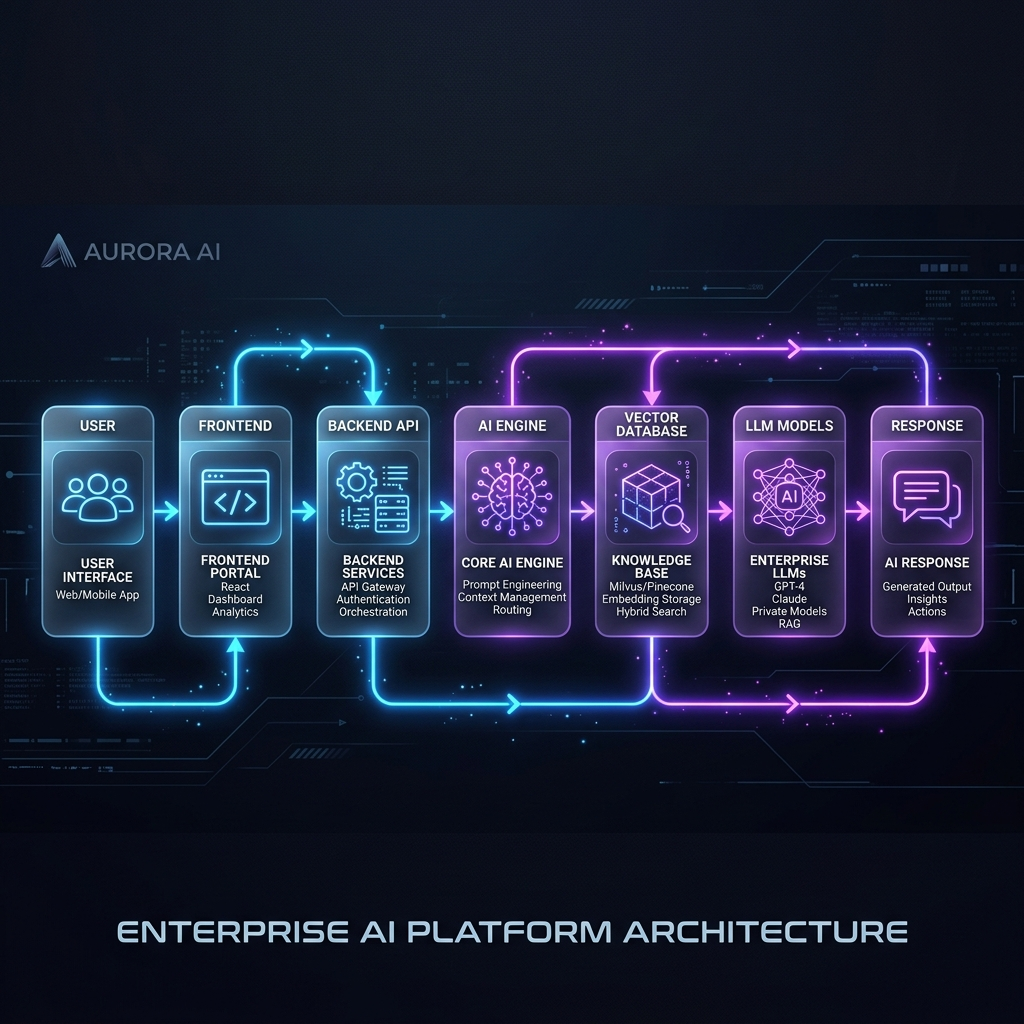
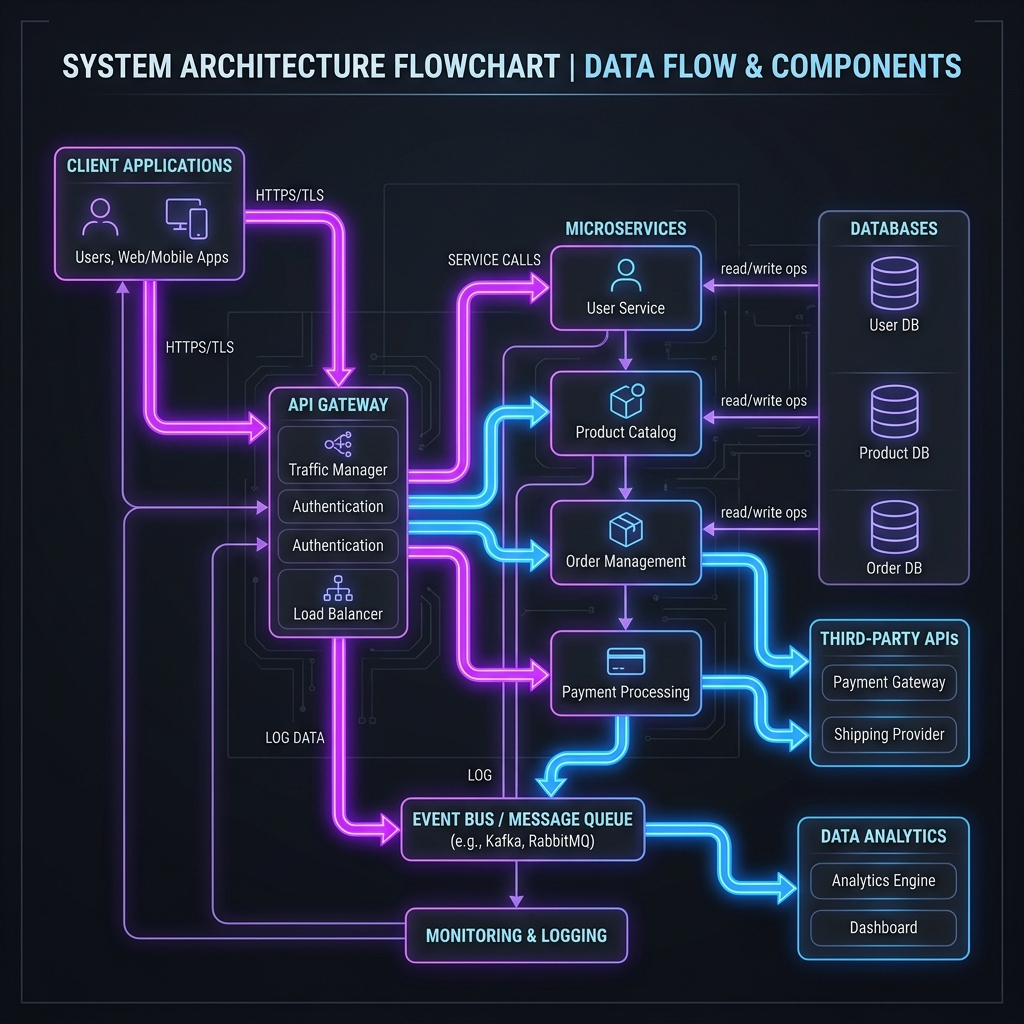
docs: replace assets with clean brandless graphics and animated flow SVG

diff --git a/README.md b/README.md
@@ -47,7 +47,7 @@ This diagram illustrates the cloud layout of how the showcase platform serves vi
 The step-by-step request flow when users visit the portfolio and interact with the project video presentations:
 
 <p align="center">
-<img src="./assets/workflow.png" width="100%">
+<img src="./assets/workflow.svg" width="100%">
 </p>
 
 ---
@@ -84,7 +84,7 @@ AI-projects-display/
 ├── assets/
 │   ├── banner.png        # Repository hero banner
 │   ├── architecture.png  # Web architecture diagram
-│   └── workflow.png      # AI showcase workflow diagram
+│   └── workflow.svg      # AI showcase workflow diagram
 ├── app.py                # Flask Server Router
 ├── vercel.json           # Vercel deployment configuration
 ├── render.yaml           # Render deployment configuration
